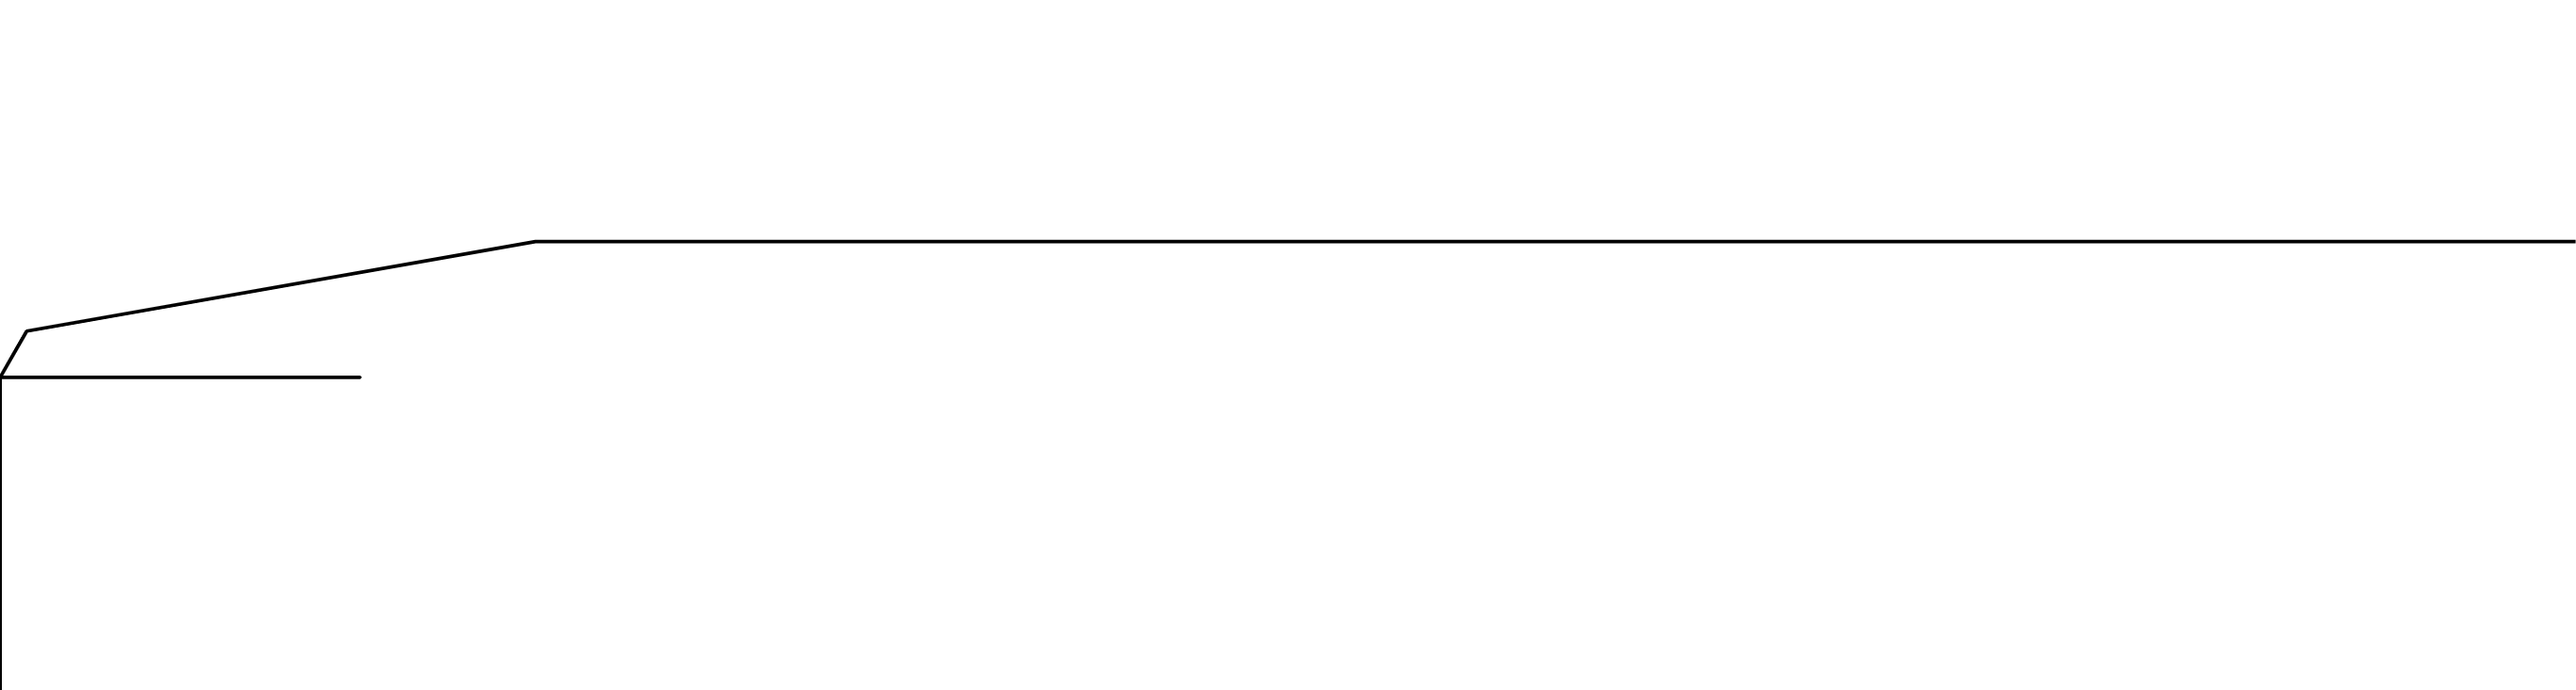
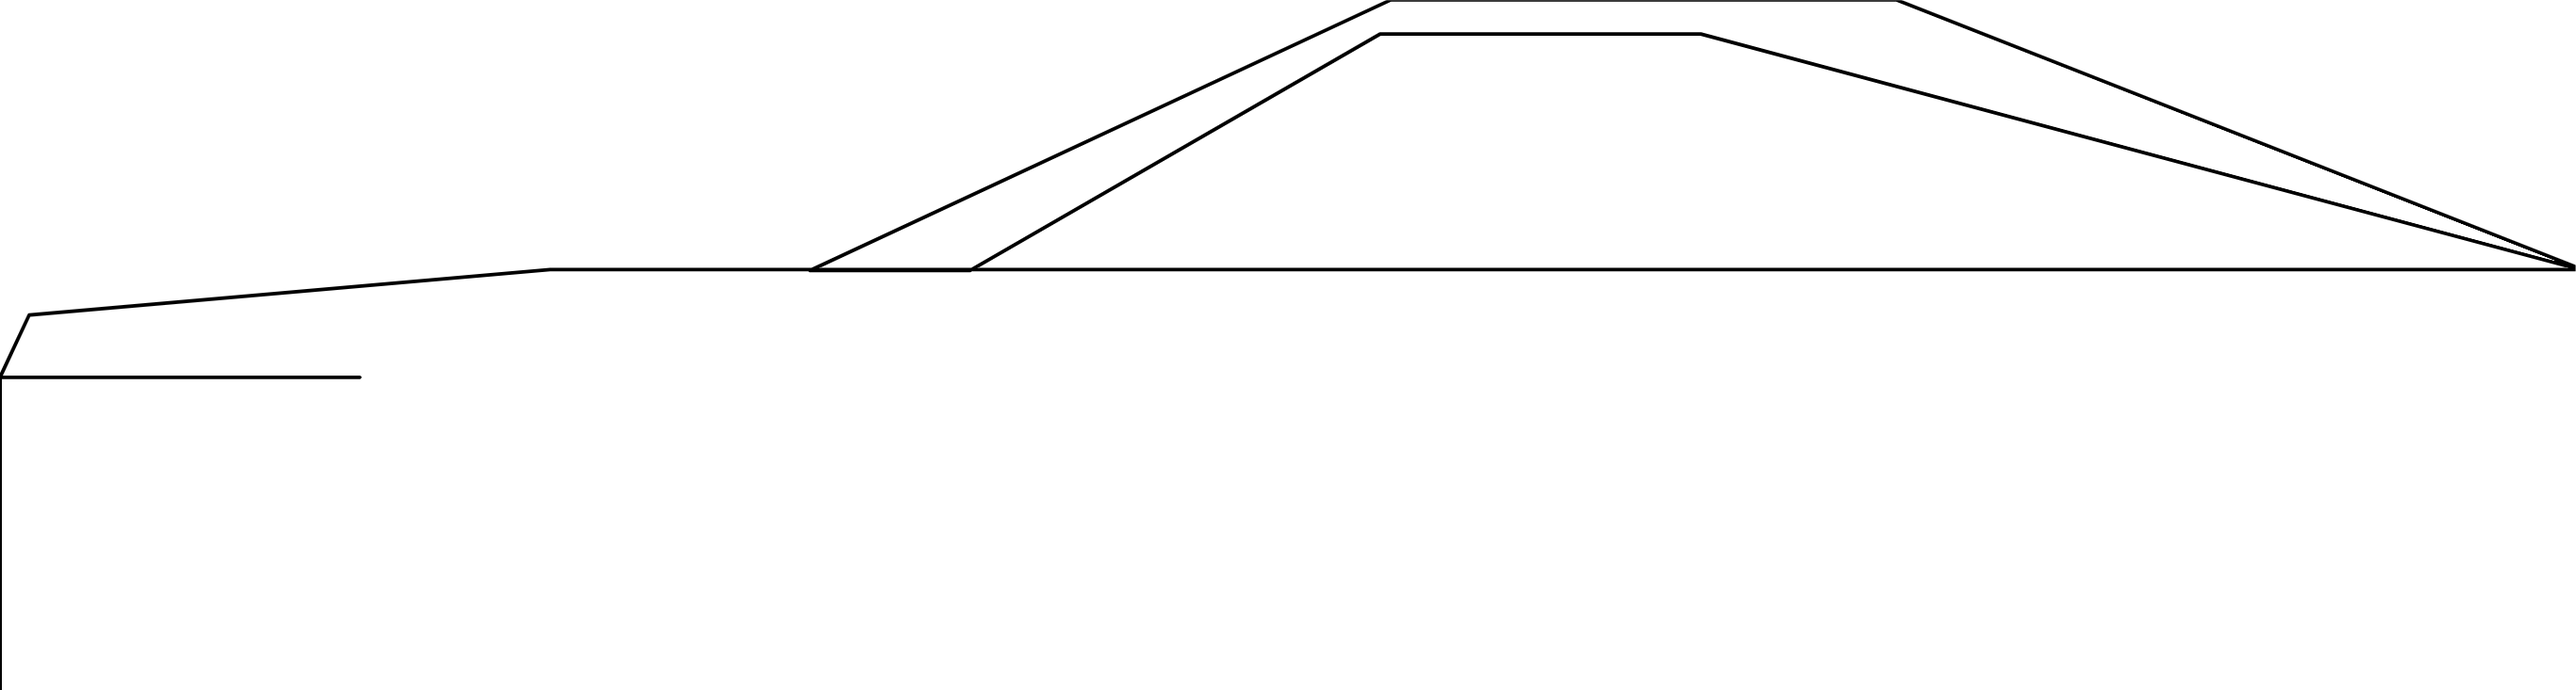
making car slowly with maths

diff --git a/project.js b/project.js
@@ -11,12 +11,26 @@ t.right(90)
 t.forward(101)
 t.right(180)
 t.forward(101)
-t.right(120)
-t.forward(15)
-t.right(50)
-t.forward(145)
-t.right(10)
-t.forward(573)
+t.right(90+25)
+t.forward(19.313)
+t.right(60)
+t.forward(146.812)
+t.right(5)
+t.forward(570)
+t.left(165)
+t.forward(255.707)
+t.left(15)
+t.forward(90)
+t.left(30)
+t.forward(132.938)
+t.right(30)
+t.forward(45)
+t.right(90+65)
+t.forward(180)
+t.right(25)
+t.forward(142)
+t.right(21.5)
+t.forward(205)
 
 
 
